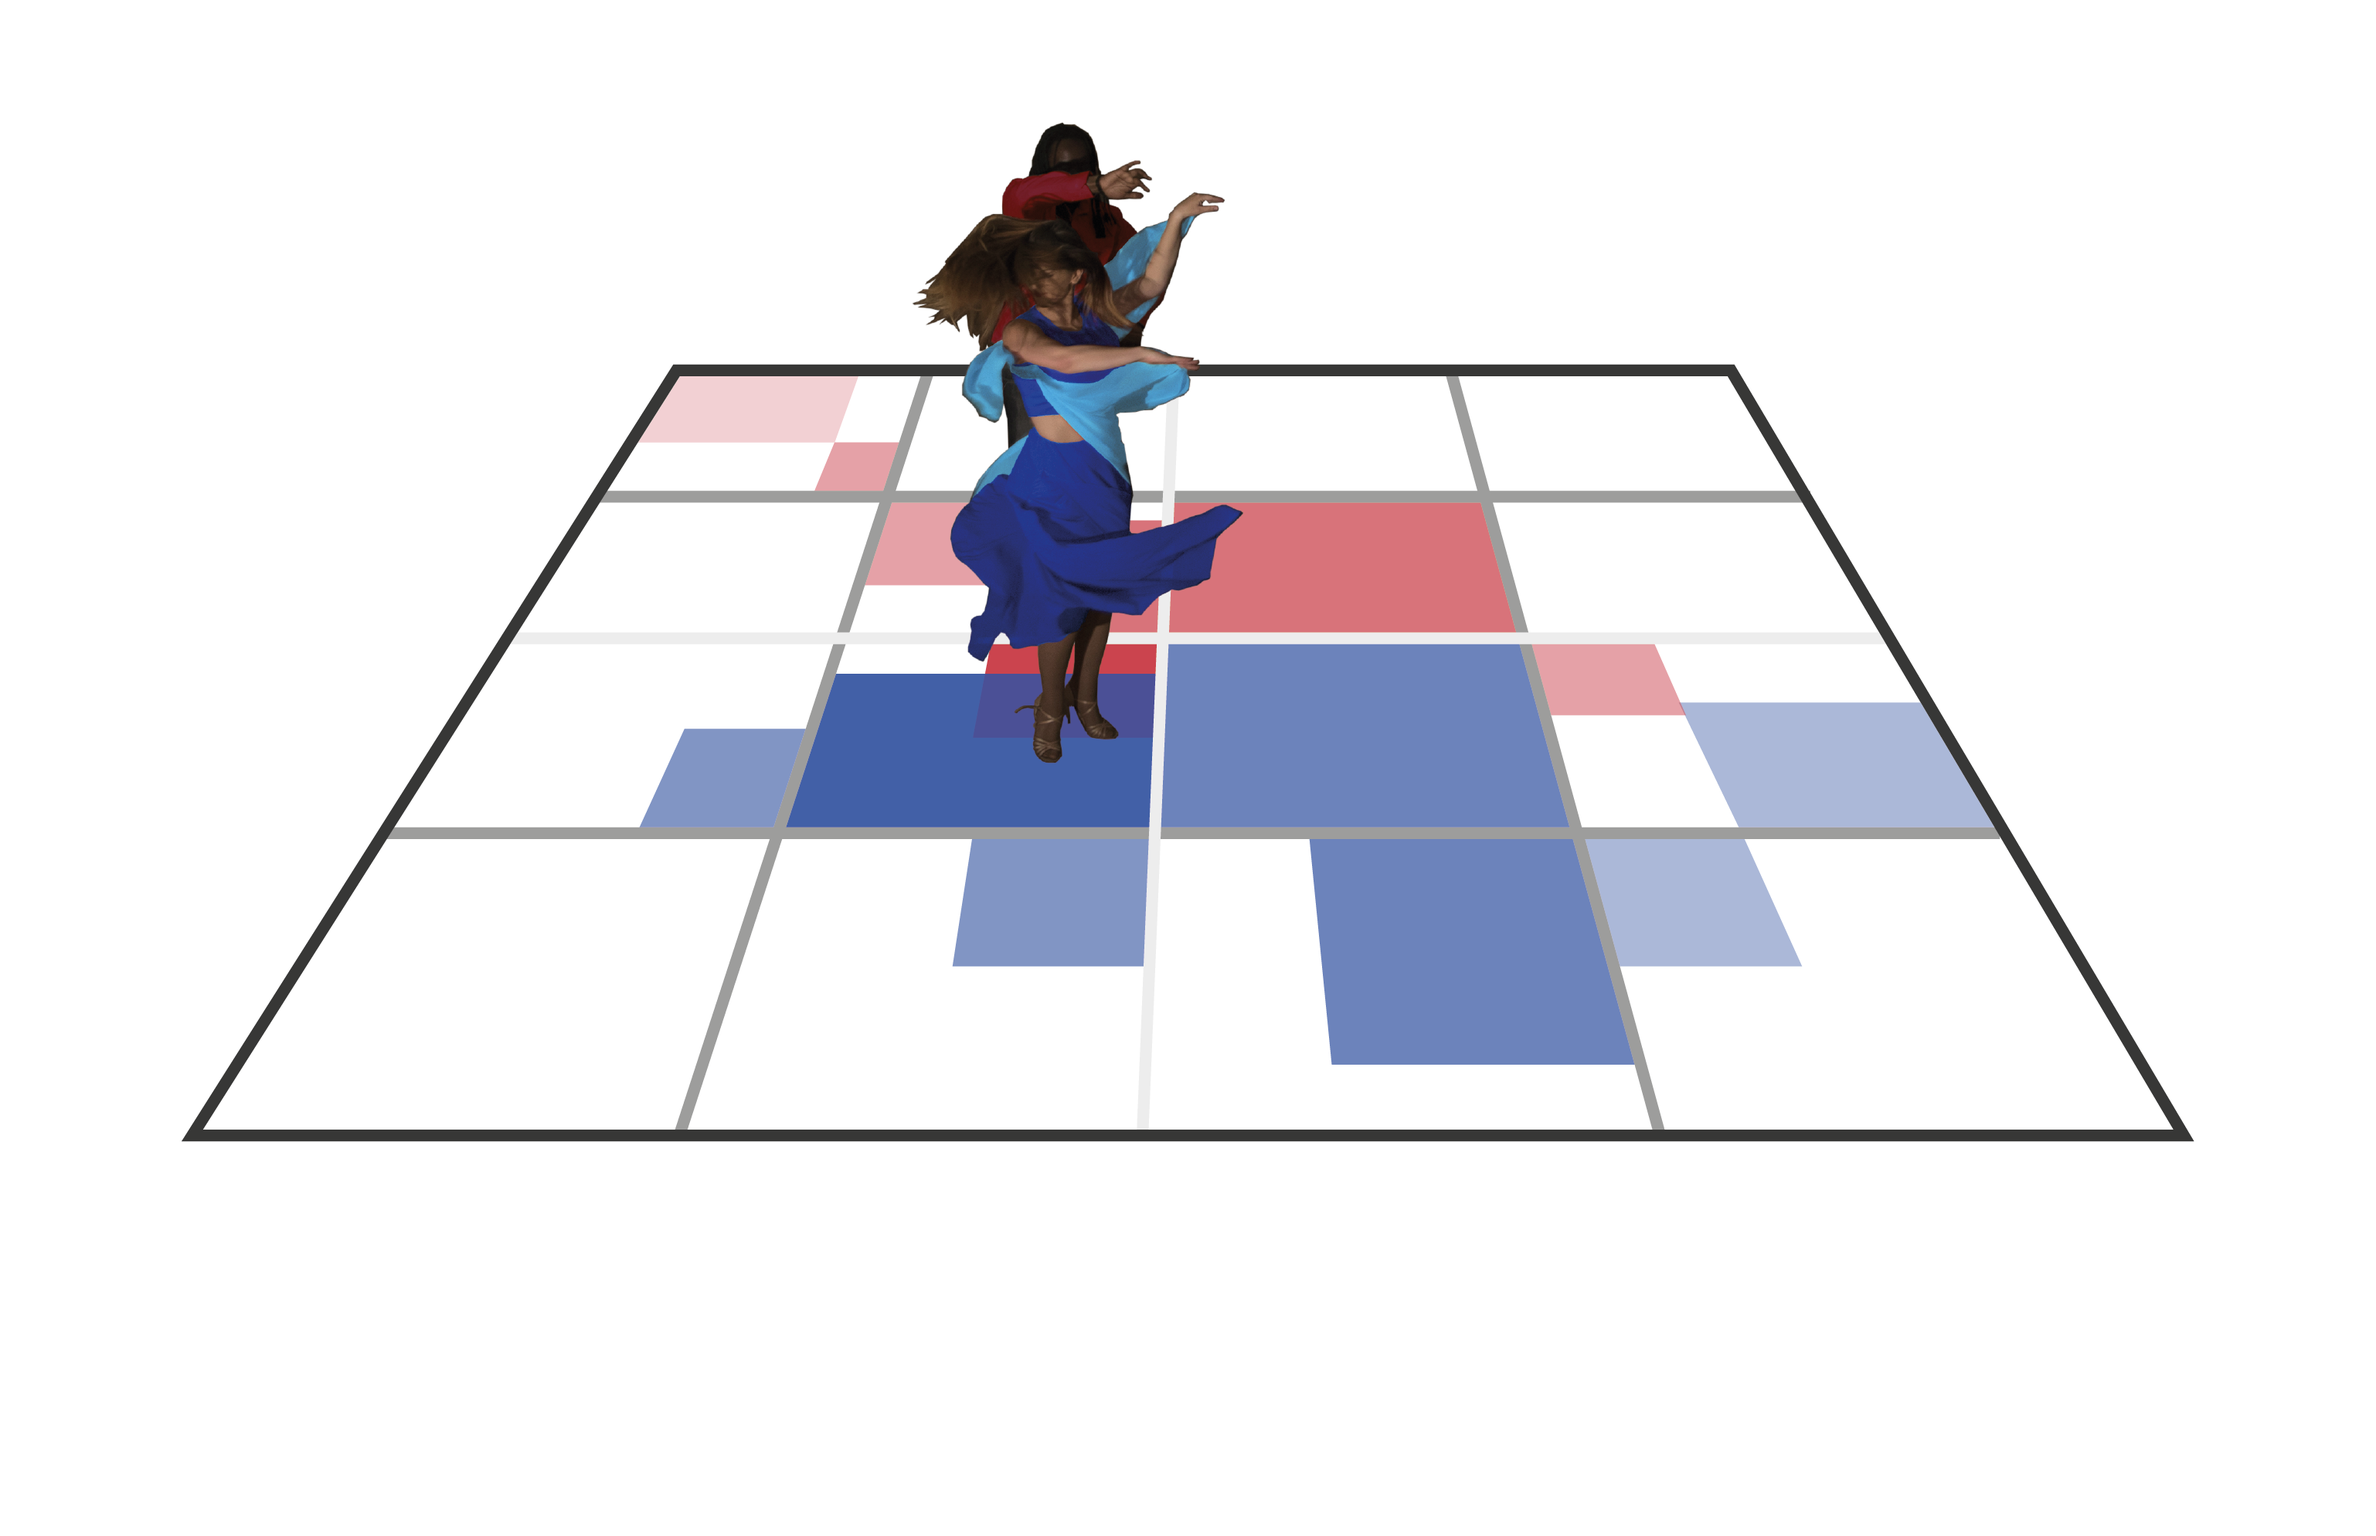
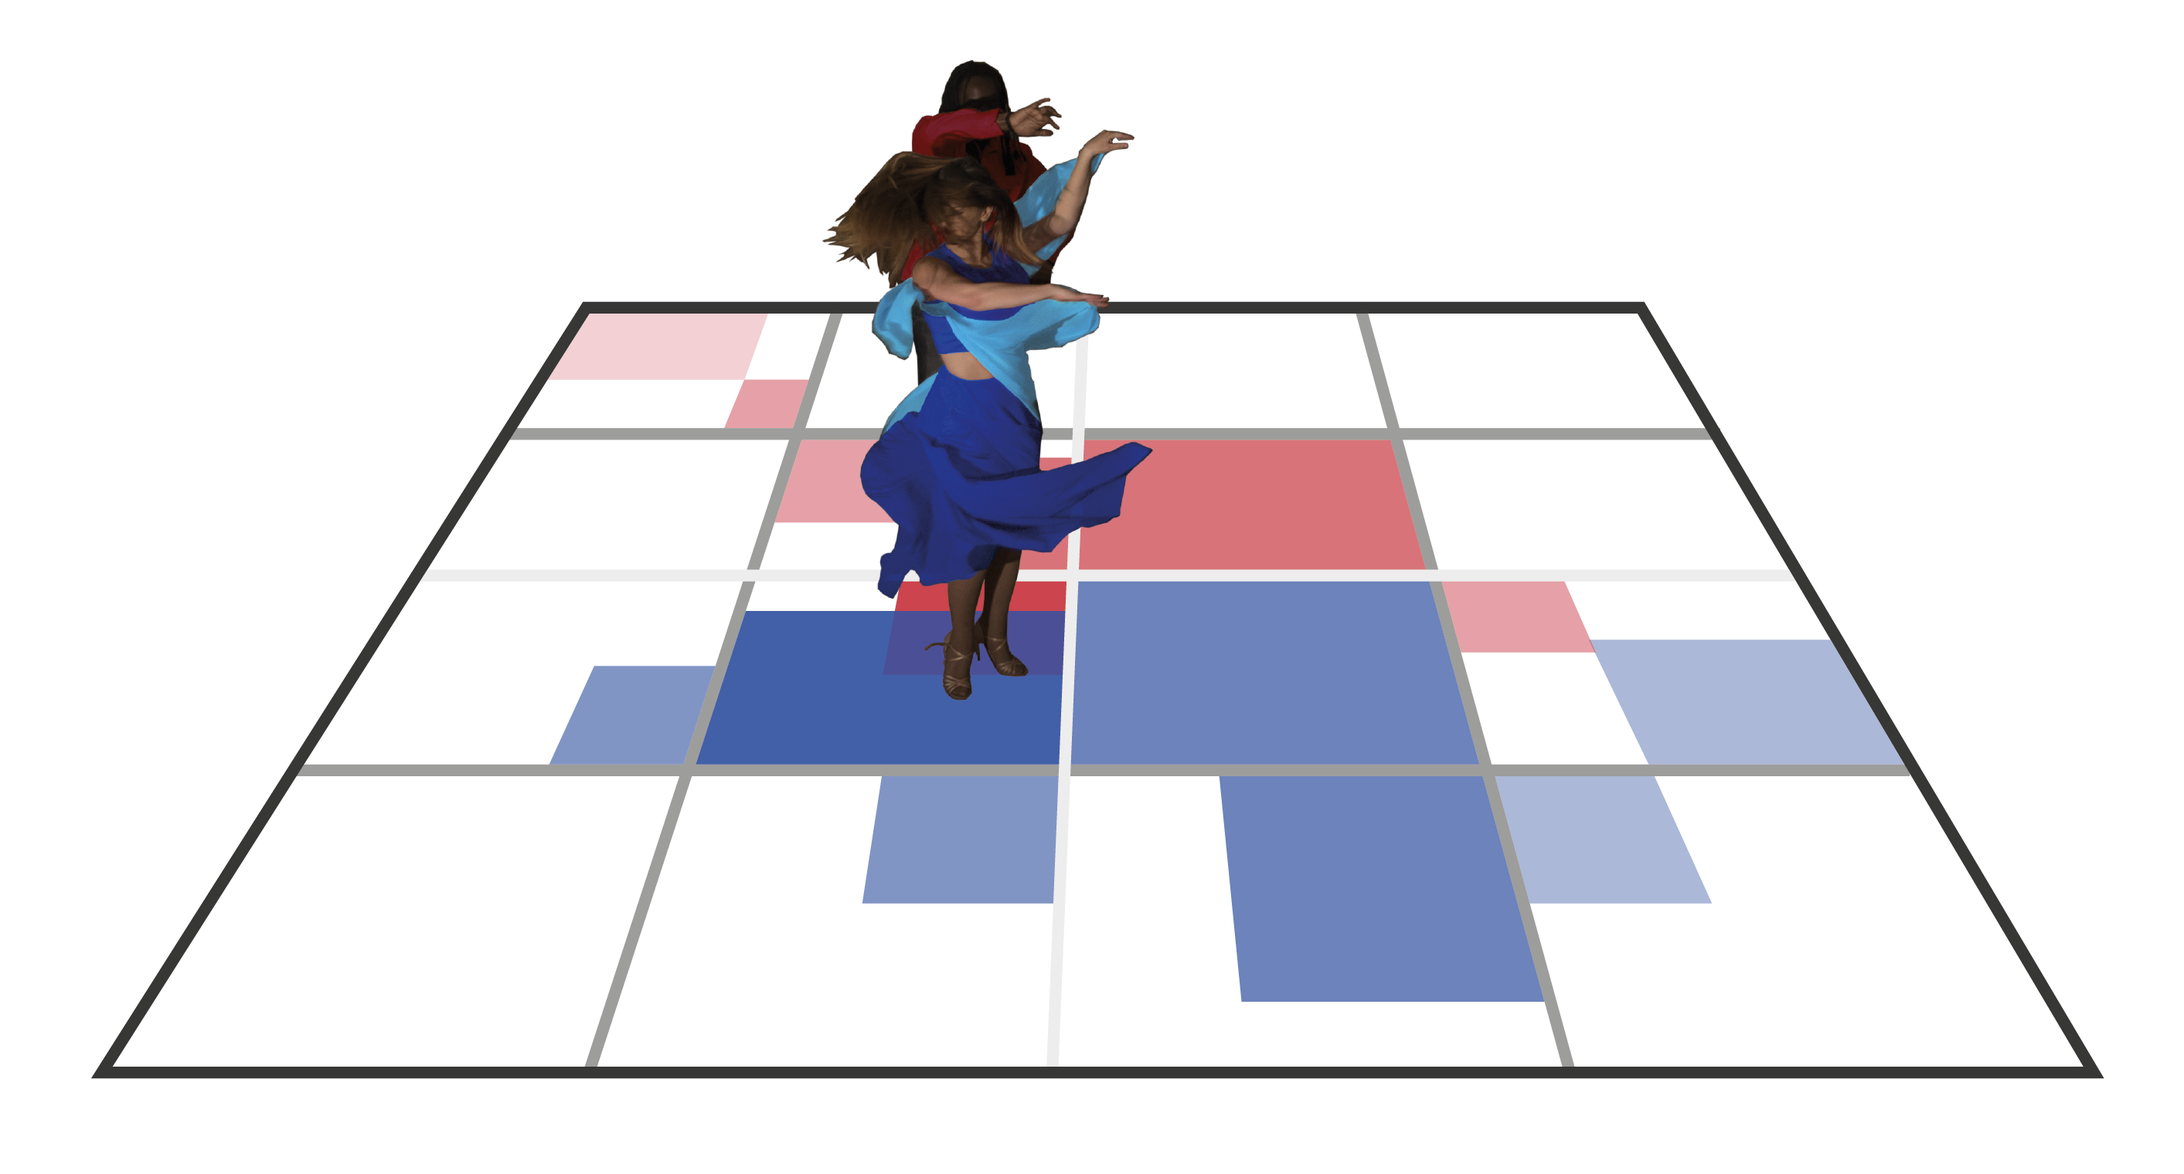
adding padding to images on smaller screen size

Changed region(s): [[0.0311, 0.0309, 0.9653, 0.9276], [0.1868, 0.402, 0.218, 0.4947], [0.0623, 0.773, 0.0934, 0.8658]]

diff --git a/src/Pages/PortfolioPage.js b/src/Pages/PortfolioPage.js
@@ -23,33 +23,32 @@ export default function PortfolioPage() {
         </div>
 
         <div class="event-posters">
-           <img className="event responsive" src= {eventPosters} alt='eventPosters'/> 
-           {/* <img className="event responsive" src= {springBall} alt='springBall'/>  */}
+           <img className="event responsive padding" src= {eventPosters} alt='eventPosters'/> 
           {/* <p>event-posters</p> */}
         </div>
 
         <div class="app-designs">
-           <img className="responsive" src= {appLogos} alt='appLogos'/> 
+           <img className="responsive padding" src= {appLogos} alt='appLogos'/> 
           {/* <p>app-designs</p> */}
         </div>
 
         <div class="lds-logos">
-           <img className="responsive" src= {ldsTshirtLogos} alt='ldsTshirtLogos'/> 
+           <img className="responsive padding" src= {ldsTshirtLogos} alt='ldsTshirtLogos'/> 
           {/* <p>lds-logos</p> */}
         </div>
 
         <div class="strategic-plan">
-           {/* <img className="responsive" src= {workers} alt='logo'/>  */}
-          <p>strategic-plan</p>
+           <img className="smallerImage padding" src= {strategicPlan} alt='strategicPlan'/> 
+          {/* <p>strategic-plan</p> */}
         </div>
 
         <div class="salsa-as-political-speech">
-          {/* <img className="responsive" src= {workers} alt='logo'/>  */}
-         <p>salsa-as-political-speechs</p>
+          <img className="responsive padding" src= {salsaGraphic} alt='salsaGraphic'/> 
+         {/* <p>salsa-as-political-speechs</p> */}
         </div>
 
         <div class="omni-channel-infographic">
-          <img className="omnichannel responsive" src= {universalBasket} alt='universalBasket'/> 
+          <img className="responsive padding" src= {universalBasket} alt='universalBasket'/> 
           {/* <p>omni-channel-infographic</p> */}
         </div>
         

diff --git a/src/css/portfolioPage.css b/src/css/portfolioPage.css
@@ -44,12 +44,20 @@
     width: 80%;
     /* height: auto; */
   }
+
+  .smallerImage {
+    width: 70%;
+  }
   
   .workers-text {
     position:relative;
     z-index:1;
   }
-  
+
+  .padding {
+    padding:  40px 0px 40px 0px;
+  }
+
   .event-posters { 
     grid-area: event-posters; 
     background-color: #E3D6A5;
@@ -95,11 +103,6 @@
     justify-content: center;
     align-items: center;
   }
-
-  .omnichannel {
-    padding: 20px;
-  }
-  
   
   /* Responsive layout - makes a two column-layout instead of four columns */
   @media screen and (max-width: 800px) {
